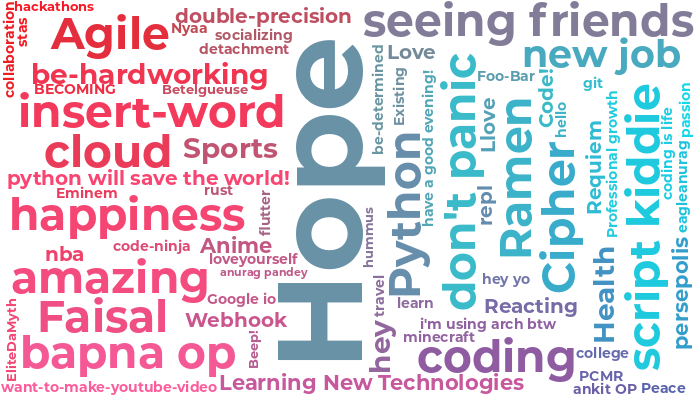
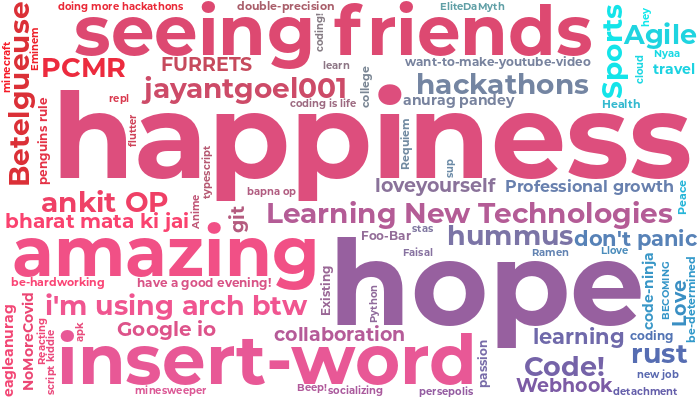
@PremApk added 'apk' to the Word Cloud

diff --git a/README.md b/README.md
@@ -11,9 +11,9 @@ Welcome to my profile! I'm a student interning @Microsoft, an aspiring [writer](
 
 ## Join the Community Word Cloud :cloud: :pencil2:
 
-![](https://img.shields.io/badge/Words%20Added-286-brightgreen?labelColor=7D898B)
+![](https://img.shields.io/badge/Words%20Added-287-brightgreen?labelColor=7D898B)
 ![](https://img.shields.io/badge/Word%20Clouds%20Created-5-48D6FF?labelColor=7D898B)
-![](https://img.shields.io/badge/Total%20Participants-208-AC6EFF?labelColor=7D898B)
+![](https://img.shields.io/badge/Total%20Participants-209-AC6EFF?labelColor=7D898B)
 
 ### :thought_balloon: [Add a word](https://github.com/JessicaLim8/JessicaLim8/issues/new?template=addword.md&title=wordcloud%7Cadd%7C%3CINSERT-WORD%3E) to see the word cloud update in real time :rocket:
 
@@ -27,11 +27,11 @@ A new word cloud will be automatically generated when you [add your own word](ht
 
   <img src="https://raw.githubusercontent.com/JessicaLim8/JessicaLim8/master/wordcloud/wordcloud.png" alt="WordCloud" width="100%">
 
-  ![Word Cloud Words Badge](https://img.shields.io/badge/Words%20in%20this%20Cloud-88-informational?labelColor=7D898B)
-  ![Word Cloud Contributors Badge](https://img.shields.io/badge/Contributors%20this%20Cloud-74-blueviolet?labelColor=7D898B)
+  ![Word Cloud Words Badge](https://img.shields.io/badge/Words%20in%20this%20Cloud-89-informational?labelColor=7D898B)
+  ![Word Cloud Contributors Badge](https://img.shields.io/badge/Contributors%20this%20Cloud-75-blueviolet?labelColor=7D898B)
 
 
-[![Github Badge](https://img.shields.io/badge/-@Tijil2111-24292e?style=flat&logo=Github&logoColor=white&link=https://github.com/Tijil2111)](https://github.com/Tijil2111) [![Github Badge](https://img.shields.io/badge/-@nclsbayona-24292e?style=flat&logo=Github&logoColor=white&link=https://github.com/nclsbayona)](https://github.com/nclsbayona) [![Github Badge](https://img.shields.io/badge/-@NguyenD--Nam-24292e?style=flat&logo=Github&logoColor=white&link=https://github.com/NguyenD-Nam)](https://github.com/NguyenD-Nam) [![Github Badge](https://img.shields.io/badge/-@cmxiv-24292e?style=flat&logo=Github&logoColor=white&link=https://github.com/cmxiv)](https://github.com/cmxiv) [![Github Badge](https://img.shields.io/badge/-@ZigRazor-24292e?style=flat&logo=Github&logoColor=white&link=https://github.com/ZigRazor)](https://github.com/ZigRazor) [![Github Badge](https://img.shields.io/badge/-@dewith-24292e?style=flat&logo=Github&logoColor=white&link=https://github.com/dewith)](https://github.com/dewith) [![Github Badge](https://img.shields.io/badge/-@fasih4444-24292e?style=flat&logo=Github&logoColor=white&link=https://github.com/fasih4444)](https://github.com/fasih4444) [![Github Badge](https://img.shields.io/badge/-@JKleinne-24292e?style=flat&logo=Github&logoColor=white&link=https://github.com/JKleinne)](https://github.com/JKleinne) [![Github Badge](https://img.shields.io/badge/-@Gingertonic-24292e?style=flat&logo=Github&logoColor=white&link=https://github.com/Gingertonic)](https://github.com/Gingertonic) [![Github Badge](https://img.shields.io/badge/-@DeviousLab-24292e?style=flat&logo=Github&logoColor=white&link=https://github.com/DeviousLab)](https://github.com/DeviousLab) [![Github Badge](https://img.shields.io/badge/-@SrNightmare09-24292e?style=flat&logo=Github&logoColor=white&link=https://github.com/SrNightmare09)](https://github.com/SrNightmare09) [![Github Badge](https://img.shields.io/badge/-@UltiRequiem-24292e?style=flat&logo=Github&logoColor=white&link=https://github.com/UltiRequiem)](https://github.com/UltiRequiem) [![Github Badge](https://img.shields.io/badge/-@yashi12-24292e?style=flat&logo=Github&logoColor=white&link=https://github.com/yashi12)](https://github.com/yashi12) [![Github Badge](https://img.shields.io/badge/-@JayantGoel001-24292e?style=flat&logo=Github&logoColor=white&link=https://github.com/JayantGoel001)](https://github.com/JayantGoel001) [![Github Badge](https://img.shields.io/badge/-@Tr1angular-24292e?style=flat&logo=Github&logoColor=white&link=https://github.com/Tr1angular)](https://github.com/Tr1angular) [![Github Badge](https://img.shields.io/badge/-@pavleen14-24292e?style=flat&logo=Github&logoColor=white&link=https://github.com/pavleen14)](https://github.com/pavleen14) [![Github Badge](https://img.shields.io/badge/-@yashprakash13-24292e?style=flat&logo=Github&logoColor=white&link=https://github.com/yashprakash13)](https://github.com/yashprakash13) [![Github Badge](https://img.shields.io/badge/-@karinmelissa-24292e?style=flat&logo=Github&logoColor=white&link=https://github.com/karinmelissa)](https://github.com/karinmelissa) [![Github Badge](https://img.shields.io/badge/-@Kush1101-24292e?style=flat&logo=Github&logoColor=white&link=https://github.com/Kush1101)](https://github.com/Kush1101) [![Github Badge](https://img.shields.io/badge/-@mormandil-24292e?style=flat&logo=Github&logoColor=white&link=https://github.com/mormandil)](https://github.com/mormandil) [![Github Badge](https://img.shields.io/badge/-@KnlnKS-24292e?style=flat&logo=Github&logoColor=white&link=https://github.com/KnlnKS)](https://github.com/KnlnKS) [![Github Badge](https://img.shields.io/badge/-@crxssed7-24292e?style=flat&logo=Github&logoColor=white&link=https://github.com/crxssed7)](https://github.com/crxssed7) [![Github Badge](https://img.shields.io/badge/-@Utkarsh1504-24292e?style=flat&logo=Github&logoColor=white&link=https://github.com/Utkarsh1504)](https://github.com/Utkarsh1504) [![Github Badge](https://img.shields.io/badge/-@prathimacode--hub-24292e?style=flat&logo=Github&logoColor=white&link=https://github.com/prathimacode-hub)](https://github.com/prathimacode-hub) [![Github Badge](https://img.shields.io/badge/-@Jaishree--19-24292e?style=flat&logo=Github&logoColor=white&link=https://github.com/Jaishree-19)](https://github.com/Jaishree-19) [![Github Badge](https://img.shields.io/badge/-@Darian--Frey-24292e?style=flat&logo=Github&logoColor=white&link=https://github.com/Darian-Frey)](https://github.com/Darian-Frey) [![Github Badge](https://img.shields.io/badge/-@DonaldKLee-24292e?style=flat&logo=Github&logoColor=white&link=https://github.com/DonaldKLee)](https://github.com/DonaldKLee) [![Github Badge](https://img.shields.io/badge/-@eagleanurag-24292e?style=flat&logo=Github&logoColor=white&link=https://github.com/eagleanurag)](https://github.com/eagleanurag) [![Github Badge](https://img.shields.io/badge/-@ErfanRht-24292e?style=flat&logo=Github&logoColor=white&link=https://github.com/ErfanRht)](https://github.com/ErfanRht) [![Github Badge](https://img.shields.io/badge/-@TLillySib-24292e?style=flat&logo=Github&logoColor=white&link=https://github.com/TLillySib)](https://github.com/TLillySib) [![Github Badge](https://img.shields.io/badge/-@OkkarMin-24292e?style=flat&logo=Github&logoColor=white&link=https://github.com/OkkarMin)](https://github.com/OkkarMin) [![Github Badge](https://img.shields.io/badge/-@javagarm-24292e?style=flat&logo=Github&logoColor=white&link=https://github.com/javagarm)](https://github.com/javagarm) [![Github Badge](https://img.shields.io/badge/-@JuanesLamilla-24292e?style=flat&logo=Github&logoColor=white&link=https://github.com/JuanesLamilla)](https://github.com/JuanesLamilla) [![Github Badge](https://img.shields.io/badge/-@AntonyElfferich-24292e?style=flat&logo=Github&logoColor=white&link=https://github.com/AntonyElfferich)](https://github.com/AntonyElfferich) [![Github Badge](https://img.shields.io/badge/-@stanislawdann-24292e?style=flat&logo=Github&logoColor=white&link=https://github.com/stanislawdann)](https://github.com/stanislawdann) [![Github Badge](https://img.shields.io/badge/-@ChristianECG-24292e?style=flat&logo=Github&logoColor=white&link=https://github.com/ChristianECG)](https://github.com/ChristianECG) [![Github Badge](https://img.shields.io/badge/-@RayhanADev-24292e?style=flat&logo=Github&logoColor=white&link=https://github.com/RayhanADev)](https://github.com/RayhanADev) [![Github Badge](https://img.shields.io/badge/-@youngchief--btw-24292e?style=flat&logo=Github&logoColor=white&link=https://github.com/youngchief-btw)](https://github.com/youngchief-btw) [![Github Badge](https://img.shields.io/badge/-@RicardoKurashiki-24292e?style=flat&logo=Github&logoColor=white&link=https://github.com/RicardoKurashiki)](https://github.com/RicardoKurashiki) [![Github Badge](https://img.shields.io/badge/-@djkoustavdimensionless-24292e?style=flat&logo=Github&logoColor=white&link=https://github.com/djkoustavdimensionless)](https://github.com/djkoustavdimensionless) [![Github Badge](https://img.shields.io/badge/-@Kur1sutaru-24292e?style=flat&logo=Github&logoColor=white&link=https://github.com/Kur1sutaru)](https://github.com/Kur1sutaru) [![Github Badge](https://img.shields.io/badge/-@sagentr-24292e?style=flat&logo=Github&logoColor=white&link=https://github.com/sagentr)](https://github.com/sagentr) [![Github Badge](https://img.shields.io/badge/-@jawanggit-24292e?style=flat&logo=Github&logoColor=white&link=https://github.com/jawanggit)](https://github.com/jawanggit) [![Github Badge](https://img.shields.io/badge/-@rtambunt-24292e?style=flat&logo=Github&logoColor=white&link=https://github.com/rtambunt)](https://github.com/rtambunt) [![Github Badge](https://img.shields.io/badge/-@ishmamt-24292e?style=flat&logo=Github&logoColor=white&link=https://github.com/ishmamt)](https://github.com/ishmamt) [![Github Badge](https://img.shields.io/badge/-@KennyOliver-24292e?style=flat&logo=Github&logoColor=white&link=https://github.com/KennyOliver)](https://github.com/KennyOliver) [![Github Badge](https://img.shields.io/badge/-@agonzal-24292e?style=flat&logo=Github&logoColor=white&link=https://github.com/agonzal)](https://github.com/agonzal) [![Github Badge](https://img.shields.io/badge/-@Rishit--dagli-24292e?style=flat&logo=Github&logoColor=white&link=https://github.com/Rishit-dagli)](https://github.com/Rishit-dagli) [![Github Badge](https://img.shields.io/badge/-@nkitan-24292e?style=flat&logo=Github&logoColor=white&link=https://github.com/nkitan)](https://github.com/nkitan) [![Github Badge](https://img.shields.io/badge/-@awoodford-24292e?style=flat&logo=Github&logoColor=white&link=https://github.com/awoodford)](https://github.com/awoodford) [![Github Badge](https://img.shields.io/badge/-@DeeshanSharma-24292e?style=flat&logo=Github&logoColor=white&link=https://github.com/DeeshanSharma)](https://github.com/DeeshanSharma) [![Github Badge](https://img.shields.io/badge/-@lambwheit-24292e?style=flat&logo=Github&logoColor=white&link=https://github.com/lambwheit)](https://github.com/lambwheit) [![Github Badge](https://img.shields.io/badge/-@junxian428-24292e?style=flat&logo=Github&logoColor=white&link=https://github.com/junxian428)](https://github.com/junxian428) [![Github Badge](https://img.shields.io/badge/-@motiontx-24292e?style=flat&logo=Github&logoColor=white&link=https://github.com/motiontx)](https://github.com/motiontx) [![Github Badge](https://img.shields.io/badge/-@willdoescode-24292e?style=flat&logo=Github&logoColor=white&link=https://github.com/willdoescode)](https://github.com/willdoescode) [![Github Badge](https://img.shields.io/badge/-@shqosimov-24292e?style=flat&logo=Github&logoColor=white&link=https://github.com/shqosimov)](https://github.com/shqosimov) [![Github Badge](https://img.shields.io/badge/-@maciekglowacki-24292e?style=flat&logo=Github&logoColor=white&link=https://github.com/maciekglowacki)](https://github.com/maciekglowacki) [![Github Badge](https://img.shields.io/badge/-@yusufpapurcu-24292e?style=flat&logo=Github&logoColor=white&link=https://github.com/yusufpapurcu)](https://github.com/yusufpapurcu) [![Github Badge](https://img.shields.io/badge/-@blodvan1-24292e?style=flat&logo=Github&logoColor=white&link=https://github.com/blodvan1)](https://github.com/blodvan1) [![Github Badge](https://img.shields.io/badge/-@ronan696-24292e?style=flat&logo=Github&logoColor=white&link=https://github.com/ronan696)](https://github.com/ronan696) [![Github Badge](https://img.shields.io/badge/-@aaditkamat-24292e?style=flat&logo=Github&logoColor=white&link=https://github.com/aaditkamat)](https://github.com/aaditkamat) [![Github Badge](https://img.shields.io/badge/-@EliteDaMyth-24292e?style=flat&logo=Github&logoColor=white&link=https://github.com/EliteDaMyth)](https://github.com/EliteDaMyth) [![Github Badge](https://img.shields.io/badge/-@Mogakamo-24292e?style=flat&logo=Github&logoColor=white&link=https://github.com/Mogakamo)](https://github.com/Mogakamo) [![Github Badge](https://img.shields.io/badge/-@KonradLinkowski-24292e?style=flat&logo=Github&logoColor=white&link=https://github.com/KonradLinkowski)](https://github.com/KonradLinkowski) [![Github Badge](https://img.shields.io/badge/-@krthr-24292e?style=flat&logo=Github&logoColor=white&link=https://github.com/krthr)](https://github.com/krthr) [![Github Badge](https://img.shields.io/badge/-@DenverCoder1-24292e?style=flat&logo=Github&logoColor=white&link=https://github.com/DenverCoder1)](https://github.com/DenverCoder1) [![Github Badge](https://img.shields.io/badge/-@LuciFR1809-24292e?style=flat&logo=Github&logoColor=white&link=https://github.com/LuciFR1809)](https://github.com/LuciFR1809) [![Github Badge](https://img.shields.io/badge/-@myl989-24292e?style=flat&logo=Github&logoColor=white&link=https://github.com/myl989)](https://github.com/myl989) [![Github Badge](https://img.shields.io/badge/-@donno2048-24292e?style=flat&logo=Github&logoColor=white&link=https://github.com/donno2048)](https://github.com/donno2048) [![Github Badge](https://img.shields.io/badge/-@cosmoglint-24292e?style=flat&logo=Github&logoColor=white&link=https://github.com/cosmoglint)](https://github.com/cosmoglint) [![Github Badge](https://img.shields.io/badge/-@cdthomp1-24292e?style=flat&logo=Github&logoColor=white&link=https://github.com/cdthomp1)](https://github.com/cdthomp1) [![Github Badge](https://img.shields.io/badge/-@The--Repo--Club-24292e?style=flat&logo=Github&logoColor=white&link=https://github.com/The-Repo-Club)](https://github.com/The-Repo-Club) [![Github Badge](https://img.shields.io/badge/-@JessicaLim8-24292e?style=flat&logo=Github&logoColor=white&link=https://github.com/JessicaLim8)](https://github.com/JessicaLim8) [![Github Badge](https://img.shields.io/badge/-@AdrBender-24292e?style=flat&logo=Github&logoColor=white&link=https://github.com/AdrBender)](https://github.com/AdrBender) 
+[![Github Badge](https://img.shields.io/badge/-@PremApk-24292e?style=flat&logo=Github&logoColor=white&link=https://github.com/PremApk)](https://github.com/PremApk) [![Github Badge](https://img.shields.io/badge/-@Tijil2111-24292e?style=flat&logo=Github&logoColor=white&link=https://github.com/Tijil2111)](https://github.com/Tijil2111) [![Github Badge](https://img.shields.io/badge/-@nclsbayona-24292e?style=flat&logo=Github&logoColor=white&link=https://github.com/nclsbayona)](https://github.com/nclsbayona) [![Github Badge](https://img.shields.io/badge/-@NguyenD--Nam-24292e?style=flat&logo=Github&logoColor=white&link=https://github.com/NguyenD-Nam)](https://github.com/NguyenD-Nam) [![Github Badge](https://img.shields.io/badge/-@cmxiv-24292e?style=flat&logo=Github&logoColor=white&link=https://github.com/cmxiv)](https://github.com/cmxiv) [![Github Badge](https://img.shields.io/badge/-@ZigRazor-24292e?style=flat&logo=Github&logoColor=white&link=https://github.com/ZigRazor)](https://github.com/ZigRazor) [![Github Badge](https://img.shields.io/badge/-@dewith-24292e?style=flat&logo=Github&logoColor=white&link=https://github.com/dewith)](https://github.com/dewith) [![Github Badge](https://img.shields.io/badge/-@fasih4444-24292e?style=flat&logo=Github&logoColor=white&link=https://github.com/fasih4444)](https://github.com/fasih4444) [![Github Badge](https://img.shields.io/badge/-@JKleinne-24292e?style=flat&logo=Github&logoColor=white&link=https://github.com/JKleinne)](https://github.com/JKleinne) [![Github Badge](https://img.shields.io/badge/-@Gingertonic-24292e?style=flat&logo=Github&logoColor=white&link=https://github.com/Gingertonic)](https://github.com/Gingertonic) [![Github Badge](https://img.shields.io/badge/-@DeviousLab-24292e?style=flat&logo=Github&logoColor=white&link=https://github.com/DeviousLab)](https://github.com/DeviousLab) [![Github Badge](https://img.shields.io/badge/-@SrNightmare09-24292e?style=flat&logo=Github&logoColor=white&link=https://github.com/SrNightmare09)](https://github.com/SrNightmare09) [![Github Badge](https://img.shields.io/badge/-@UltiRequiem-24292e?style=flat&logo=Github&logoColor=white&link=https://github.com/UltiRequiem)](https://github.com/UltiRequiem) [![Github Badge](https://img.shields.io/badge/-@yashi12-24292e?style=flat&logo=Github&logoColor=white&link=https://github.com/yashi12)](https://github.com/yashi12) [![Github Badge](https://img.shields.io/badge/-@JayantGoel001-24292e?style=flat&logo=Github&logoColor=white&link=https://github.com/JayantGoel001)](https://github.com/JayantGoel001) [![Github Badge](https://img.shields.io/badge/-@Tr1angular-24292e?style=flat&logo=Github&logoColor=white&link=https://github.com/Tr1angular)](https://github.com/Tr1angular) [![Github Badge](https://img.shields.io/badge/-@pavleen14-24292e?style=flat&logo=Github&logoColor=white&link=https://github.com/pavleen14)](https://github.com/pavleen14) [![Github Badge](https://img.shields.io/badge/-@yashprakash13-24292e?style=flat&logo=Github&logoColor=white&link=https://github.com/yashprakash13)](https://github.com/yashprakash13) [![Github Badge](https://img.shields.io/badge/-@karinmelissa-24292e?style=flat&logo=Github&logoColor=white&link=https://github.com/karinmelissa)](https://github.com/karinmelissa) [![Github Badge](https://img.shields.io/badge/-@Kush1101-24292e?style=flat&logo=Github&logoColor=white&link=https://github.com/Kush1101)](https://github.com/Kush1101) [![Github Badge](https://img.shields.io/badge/-@mormandil-24292e?style=flat&logo=Github&logoColor=white&link=https://github.com/mormandil)](https://github.com/mormandil) [![Github Badge](https://img.shields.io/badge/-@KnlnKS-24292e?style=flat&logo=Github&logoColor=white&link=https://github.com/KnlnKS)](https://github.com/KnlnKS) [![Github Badge](https://img.shields.io/badge/-@crxssed7-24292e?style=flat&logo=Github&logoColor=white&link=https://github.com/crxssed7)](https://github.com/crxssed7) [![Github Badge](https://img.shields.io/badge/-@Utkarsh1504-24292e?style=flat&logo=Github&logoColor=white&link=https://github.com/Utkarsh1504)](https://github.com/Utkarsh1504) [![Github Badge](https://img.shields.io/badge/-@prathimacode--hub-24292e?style=flat&logo=Github&logoColor=white&link=https://github.com/prathimacode-hub)](https://github.com/prathimacode-hub) [![Github Badge](https://img.shields.io/badge/-@Jaishree--19-24292e?style=flat&logo=Github&logoColor=white&link=https://github.com/Jaishree-19)](https://github.com/Jaishree-19) [![Github Badge](https://img.shields.io/badge/-@Darian--Frey-24292e?style=flat&logo=Github&logoColor=white&link=https://github.com/Darian-Frey)](https://github.com/Darian-Frey) [![Github Badge](https://img.shields.io/badge/-@DonaldKLee-24292e?style=flat&logo=Github&logoColor=white&link=https://github.com/DonaldKLee)](https://github.com/DonaldKLee) [![Github Badge](https://img.shields.io/badge/-@eagleanurag-24292e?style=flat&logo=Github&logoColor=white&link=https://github.com/eagleanurag)](https://github.com/eagleanurag) [![Github Badge](https://img.shields.io/badge/-@ErfanRht-24292e?style=flat&logo=Github&logoColor=white&link=https://github.com/ErfanRht)](https://github.com/ErfanRht) [![Github Badge](https://img.shields.io/badge/-@TLillySib-24292e?style=flat&logo=Github&logoColor=white&link=https://github.com/TLillySib)](https://github.com/TLillySib) [![Github Badge](https://img.shields.io/badge/-@OkkarMin-24292e?style=flat&logo=Github&logoColor=white&link=https://github.com/OkkarMin)](https://github.com/OkkarMin) [![Github Badge](https://img.shields.io/badge/-@javagarm-24292e?style=flat&logo=Github&logoColor=white&link=https://github.com/javagarm)](https://github.com/javagarm) [![Github Badge](https://img.shields.io/badge/-@JuanesLamilla-24292e?style=flat&logo=Github&logoColor=white&link=https://github.com/JuanesLamilla)](https://github.com/JuanesLamilla) [![Github Badge](https://img.shields.io/badge/-@AntonyElfferich-24292e?style=flat&logo=Github&logoColor=white&link=https://github.com/AntonyElfferich)](https://github.com/AntonyElfferich) [![Github Badge](https://img.shields.io/badge/-@stanislawdann-24292e?style=flat&logo=Github&logoColor=white&link=https://github.com/stanislawdann)](https://github.com/stanislawdann) [![Github Badge](https://img.shields.io/badge/-@ChristianECG-24292e?style=flat&logo=Github&logoColor=white&link=https://github.com/ChristianECG)](https://github.com/ChristianECG) [![Github Badge](https://img.shields.io/badge/-@RayhanADev-24292e?style=flat&logo=Github&logoColor=white&link=https://github.com/RayhanADev)](https://github.com/RayhanADev) [![Github Badge](https://img.shields.io/badge/-@youngchief--btw-24292e?style=flat&logo=Github&logoColor=white&link=https://github.com/youngchief-btw)](https://github.com/youngchief-btw) [![Github Badge](https://img.shields.io/badge/-@RicardoKurashiki-24292e?style=flat&logo=Github&logoColor=white&link=https://github.com/RicardoKurashiki)](https://github.com/RicardoKurashiki) [![Github Badge](https://img.shields.io/badge/-@djkoustavdimensionless-24292e?style=flat&logo=Github&logoColor=white&link=https://github.com/djkoustavdimensionless)](https://github.com/djkoustavdimensionless) [![Github Badge](https://img.shields.io/badge/-@Kur1sutaru-24292e?style=flat&logo=Github&logoColor=white&link=https://github.com/Kur1sutaru)](https://github.com/Kur1sutaru) [![Github Badge](https://img.shields.io/badge/-@sagentr-24292e?style=flat&logo=Github&logoColor=white&link=https://github.com/sagentr)](https://github.com/sagentr) [![Github Badge](https://img.shields.io/badge/-@jawanggit-24292e?style=flat&logo=Github&logoColor=white&link=https://github.com/jawanggit)](https://github.com/jawanggit) [![Github Badge](https://img.shields.io/badge/-@rtambunt-24292e?style=flat&logo=Github&logoColor=white&link=https://github.com/rtambunt)](https://github.com/rtambunt) [![Github Badge](https://img.shields.io/badge/-@ishmamt-24292e?style=flat&logo=Github&logoColor=white&link=https://github.com/ishmamt)](https://github.com/ishmamt) [![Github Badge](https://img.shields.io/badge/-@KennyOliver-24292e?style=flat&logo=Github&logoColor=white&link=https://github.com/KennyOliver)](https://github.com/KennyOliver) [![Github Badge](https://img.shields.io/badge/-@agonzal-24292e?style=flat&logo=Github&logoColor=white&link=https://github.com/agonzal)](https://github.com/agonzal) [![Github Badge](https://img.shields.io/badge/-@Rishit--dagli-24292e?style=flat&logo=Github&logoColor=white&link=https://github.com/Rishit-dagli)](https://github.com/Rishit-dagli) [![Github Badge](https://img.shields.io/badge/-@nkitan-24292e?style=flat&logo=Github&logoColor=white&link=https://github.com/nkitan)](https://github.com/nkitan) [![Github Badge](https://img.shields.io/badge/-@awoodford-24292e?style=flat&logo=Github&logoColor=white&link=https://github.com/awoodford)](https://github.com/awoodford) [![Github Badge](https://img.shields.io/badge/-@DeeshanSharma-24292e?style=flat&logo=Github&logoColor=white&link=https://github.com/DeeshanSharma)](https://github.com/DeeshanSharma) [![Github Badge](https://img.shields.io/badge/-@lambwheit-24292e?style=flat&logo=Github&logoColor=white&link=https://github.com/lambwheit)](https://github.com/lambwheit) [![Github Badge](https://img.shields.io/badge/-@junxian428-24292e?style=flat&logo=Github&logoColor=white&link=https://github.com/junxian428)](https://github.com/junxian428) [![Github Badge](https://img.shields.io/badge/-@motiontx-24292e?style=flat&logo=Github&logoColor=white&link=https://github.com/motiontx)](https://github.com/motiontx) [![Github Badge](https://img.shields.io/badge/-@willdoescode-24292e?style=flat&logo=Github&logoColor=white&link=https://github.com/willdoescode)](https://github.com/willdoescode) [![Github Badge](https://img.shields.io/badge/-@shqosimov-24292e?style=flat&logo=Github&logoColor=white&link=https://github.com/shqosimov)](https://github.com/shqosimov) [![Github Badge](https://img.shields.io/badge/-@maciekglowacki-24292e?style=flat&logo=Github&logoColor=white&link=https://github.com/maciekglowacki)](https://github.com/maciekglowacki) [![Github Badge](https://img.shields.io/badge/-@yusufpapurcu-24292e?style=flat&logo=Github&logoColor=white&link=https://github.com/yusufpapurcu)](https://github.com/yusufpapurcu) [![Github Badge](https://img.shields.io/badge/-@blodvan1-24292e?style=flat&logo=Github&logoColor=white&link=https://github.com/blodvan1)](https://github.com/blodvan1) [![Github Badge](https://img.shields.io/badge/-@ronan696-24292e?style=flat&logo=Github&logoColor=white&link=https://github.com/ronan696)](https://github.com/ronan696) [![Github Badge](https://img.shields.io/badge/-@aaditkamat-24292e?style=flat&logo=Github&logoColor=white&link=https://github.com/aaditkamat)](https://github.com/aaditkamat) [![Github Badge](https://img.shields.io/badge/-@EliteDaMyth-24292e?style=flat&logo=Github&logoColor=white&link=https://github.com/EliteDaMyth)](https://github.com/EliteDaMyth) [![Github Badge](https://img.shields.io/badge/-@Mogakamo-24292e?style=flat&logo=Github&logoColor=white&link=https://github.com/Mogakamo)](https://github.com/Mogakamo) [![Github Badge](https://img.shields.io/badge/-@KonradLinkowski-24292e?style=flat&logo=Github&logoColor=white&link=https://github.com/KonradLinkowski)](https://github.com/KonradLinkowski) [![Github Badge](https://img.shields.io/badge/-@krthr-24292e?style=flat&logo=Github&logoColor=white&link=https://github.com/krthr)](https://github.com/krthr) [![Github Badge](https://img.shields.io/badge/-@DenverCoder1-24292e?style=flat&logo=Github&logoColor=white&link=https://github.com/DenverCoder1)](https://github.com/DenverCoder1) [![Github Badge](https://img.shields.io/badge/-@LuciFR1809-24292e?style=flat&logo=Github&logoColor=white&link=https://github.com/LuciFR1809)](https://github.com/LuciFR1809) [![Github Badge](https://img.shields.io/badge/-@myl989-24292e?style=flat&logo=Github&logoColor=white&link=https://github.com/myl989)](https://github.com/myl989) [![Github Badge](https://img.shields.io/badge/-@donno2048-24292e?style=flat&logo=Github&logoColor=white&link=https://github.com/donno2048)](https://github.com/donno2048) [![Github Badge](https://img.shields.io/badge/-@cosmoglint-24292e?style=flat&logo=Github&logoColor=white&link=https://github.com/cosmoglint)](https://github.com/cosmoglint) [![Github Badge](https://img.shields.io/badge/-@cdthomp1-24292e?style=flat&logo=Github&logoColor=white&link=https://github.com/cdthomp1)](https://github.com/cdthomp1) [![Github Badge](https://img.shields.io/badge/-@The--Repo--Club-24292e?style=flat&logo=Github&logoColor=white&link=https://github.com/The-Repo-Club)](https://github.com/The-Repo-Club) [![Github Badge](https://img.shields.io/badge/-@JessicaLim8-24292e?style=flat&logo=Github&logoColor=white&link=https://github.com/JessicaLim8)](https://github.com/JessicaLim8) [![Github Badge](https://img.shields.io/badge/-@AdrBender-24292e?style=flat&logo=Github&logoColor=white&link=https://github.com/AdrBender)](https://github.com/AdrBender) 
 
  Check out the [previous word cloud](https://github.com/JessicaLim8/JessicaLim8/blob/master/previous_clouds/previous_clouds.md#what-podcast-are-you-currently-listening-to-microphone-headphones-notes) to see our community's **What podcast are you currently listening to? :microphone: :headphones: :notes:**</div>
 
